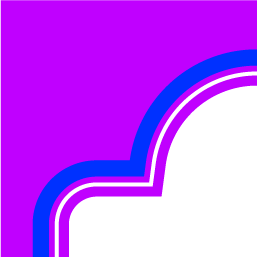
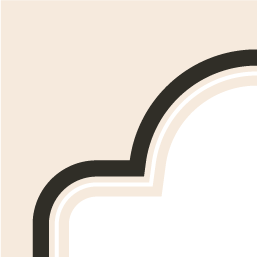
Update frame to cream/dark colour scheme, match timeline colours

diff --git a/lord-street.html b/lord-street.html
@@ -14,14 +14,14 @@
 
 <style>
   :root {
-    --bg: #cc00ff;
-    --frame-border: #0000ff;
+    --bg: #f6eadd;
+    --frame-border: #302e27;
     --frame-inner: #fff;
-    --ink: #1a1611;
-    --paper: #f1ebdd;
-    --accent: #cc00ff;
-    --era-text: #9000c0;
-    --timeline-bg: #110044;
+    --ink: #302e27;
+    --paper: #f6eadd;
+    --accent: #302e27;
+    --era-text: #302e27;
+    --timeline-bg: #302e27;
   }
 
   * { box-sizing: border-box; margin: 0; padding: 0; }
@@ -266,7 +266,7 @@
     display: flex;
     gap: 32px;
     background: var(--timeline-bg);
-    border: 4px solid var(--frame-border);
+    border: none;
     border-radius: 100px;
     padding: 12px 24px;
     box-shadow: none;
@@ -289,8 +289,8 @@
   .era-btn:hover { background: rgba(255, 255, 255, 0.1); }
 
   .era-btn.active {
-    background: var(--accent);
-    color: #fff;
+    background: var(--bg);
+    color: var(--ink);
   }
 
   /* ---- Photo lightbox (covers map frame) ---- */
